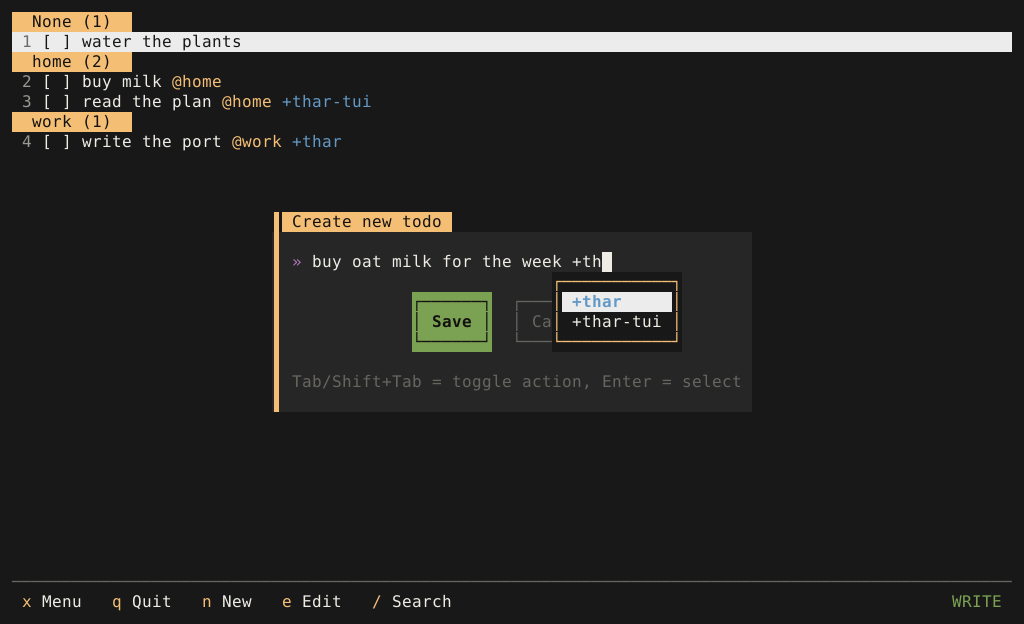
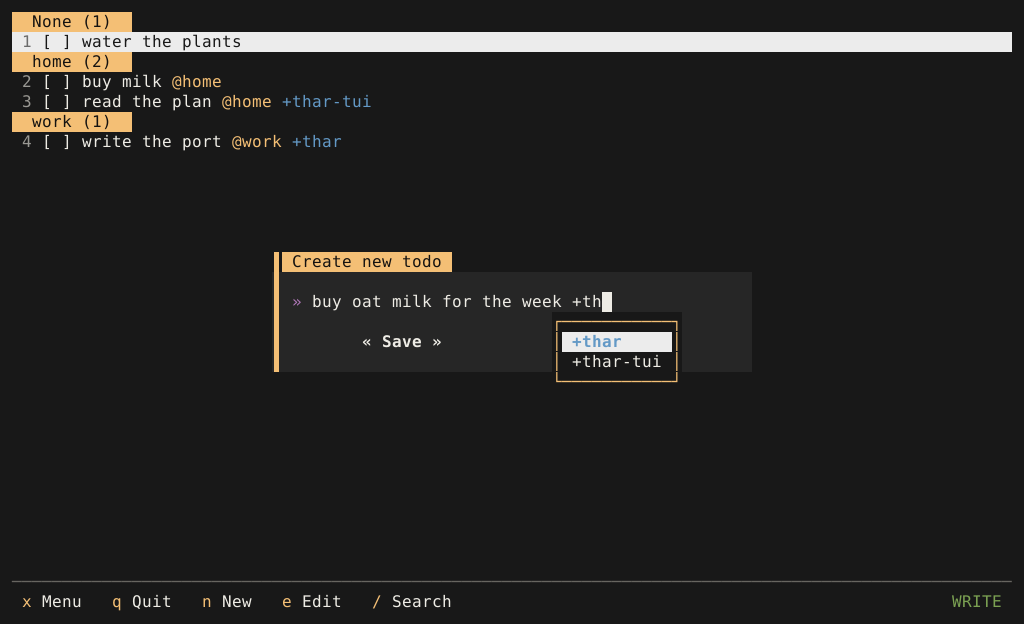
fix(tui): drop the create help line and anchor the search slash
The create/edit screen no longer draws the Tab/Shift+Tab help line under
the buttons, which leaves a compact input + spacer + button body. The search
bar keeps its left ' / ' prompt and now pins the closing slash to the last
cell of the row instead of leaving it right after the query.

Golden frames (create x2, edit, search bar) and the PTY waits follow the new
layout; the PTY assets were regenerated from a real 100x30 terminal.

Changed region(s): [[0.25, 0.3349, 0.7188, 0.6394], [0.25, 0.609, 0.3438, 0.6699], [0.375, 0.609, 0.4062, 0.6394]]

diff --git a/crates/thar-tui/tests/golden_cp7_editor.rs b/crates/thar-tui/tests/golden_cp7_editor.rs
@@ -95,14 +95,14 @@ fn eighty_by_twenty_four_create_modal_pins_input_suggestions_and_buttons() {
         "  work (1)",
         " 4 [ ] write the port @work +thar",
         "",
+        "",
         "                     ┃ Create new todo",
         "                     ┃",
         "                     ┃ » buy oat milk +th",
         "                     ┃              ┌───────────┐",
         "                     ┃     « Save » │ +thar     │cel ›",
         "                     ┃              │ +thar-tui │",
-        "                     ┃ Tab/Shift+Tab└───────────┘ion, Ente",
-        "                     ┃",
+        "                                    └───────────┘",
         "",
         "",
         "",
@@ -121,26 +121,26 @@ fn eighty_by_twenty_four_create_modal_pins_input_suggestions_and_buttons() {
     // The modal chrome is the Ink one: a primary accent bar, a primary title
     // chip with inverse text, and a #262626 body on the #181818 list.
     let buffer = backend.buffer();
-    let title_bar = &buffer[(21, 8)];
+    let title_bar = &buffer[(21, 9)];
     assert_eq!(title_bar.symbol(), "┃");
     assert_eq!(title_bar.style().fg, Some(Color::Rgb(0xF4, 0xBF, 0x75)));
-    let chip_pad = &buffer[(22, 8)];
+    let chip_pad = &buffer[(22, 9)];
     assert_eq!(chip_pad.style().bg, Some(Color::Rgb(0xF4, 0xBF, 0x75)));
-    let chip = &buffer[(23, 8)];
+    let chip = &buffer[(23, 9)];
     assert_eq!(chip.symbol(), "C");
     assert_eq!(chip.style().fg, Some(Color::Rgb(0x14, 0x12, 0x10)));
     assert_eq!(chip.style().bg, Some(Color::Rgb(0xF4, 0xBF, 0x75)));
-    let outer = &buffer[(20, 8)];
+    let outer = &buffer[(20, 9)];
     assert_eq!(outer.style().bg, Some(Color::Rgb(0x18, 0x18, 0x18)));
-    let pad = &buffer[(22, 10)];
+    let pad = &buffer[(22, 11)];
     assert_eq!(pad.style().bg, Some(Color::Rgb(0x26, 0x26, 0x26)));
-    let body_bar = &buffer[(21, 10)];
+    let body_bar = &buffer[(21, 11)];
     assert_eq!(body_bar.symbol(), "┃");
     assert_eq!(body_bar.style().fg, Some(Color::Rgb(0xF4, 0xBF, 0x75)));
     // The old full-border frame is gone: the outer padding columns stay blank
     // on every modal row, even where the popup and buttons use box glyphs.
     let screen = screen_lines(&backend);
-    for (y, line) in screen.iter().enumerate().skip(7).take(10) {
+    for (y, line) in screen.iter().enumerate().skip(8).take(8) {
         let cells: Vec<char> = line.chars().collect();
         assert_eq!(
             cells.get(20).copied().unwrap_or(' '),
@@ -157,25 +157,25 @@ fn eighty_by_twenty_four_create_modal_pins_input_suggestions_and_buttons() {
 
     // The popup is content-sized and anchored under the typed `+`: the box is
     // 13 cells wide (8-char name + prefix/space/borders), at columns 36..48.
-    assert_eq!(screen_lines(&backend)[11].chars().nth(36), Some('┌'));
-    assert_eq!(screen_lines(&backend)[11].chars().nth(48), Some('┐'));
+    assert_eq!(screen_lines(&backend)[12].chars().nth(36), Some('┌'));
+    assert_eq!(screen_lines(&backend)[12].chars().nth(48), Some('┐'));
 
     // The cursor is the cell after the last typed character, inverse video.
-    let cursor = &buffer[(41, 10)];
+    let cursor = &buffer[(41, 11)];
     assert_eq!(cursor.symbol(), " ");
     assert!(cursor.modifier.contains(Modifier::REVERSED));
 
     // The first suggestion row is selected: inverse background, accent
     // foreground, and the prefix inherits the row colour.
-    let selected = &buffer[(37, 12)];
+    let selected = &buffer[(37, 13)];
     assert_eq!(selected.symbol(), " ");
     assert_eq!(selected.style().bg, Some(Color::Rgb(0xEC, 0xEC, 0xEC)));
-    let project = &buffer[(38, 12)];
+    let project = &buffer[(38, 13)];
     assert_eq!(project.symbol(), "+");
     assert_eq!(project.style().fg, Some(Color::Rgb(0x63, 0x99, 0xC6)));
 
     // The popup prefix sits on the same column as the typed marker.
-    let typed_marker = &buffer[(38, 10)];
+    let typed_marker = &buffer[(38, 11)];
     assert_eq!(typed_marker.symbol(), "+");
 
     // A second frame without a tag keeps the modal at the same place and the
@@ -188,12 +188,12 @@ fn eighty_by_twenty_four_create_modal_pins_input_suggestions_and_buttons() {
     let buffer = plain.buffer();
     // The selected button is the shared `« Save »` row: foreground text on
     // the modal surface, bold, with the muted `‹ Cancel ›` beside it.
-    let save = &buffer[(29, 12)];
+    let save = &buffer[(29, 13)];
     assert_eq!(save.symbol(), "S");
     assert_eq!(save.style().bg, Some(Color::Rgb(0x26, 0x26, 0x26)));
     assert_eq!(save.style().fg, Some(Color::Rgb(0xEE, 0xEC, 0xE5)));
     assert!(save.style().add_modifier.contains(Modifier::BOLD));
-    let cancel = &buffer[(46, 12)];
+    let cancel = &buffer[(46, 13)];
     assert_eq!(cancel.symbol(), "C");
     assert_eq!(cancel.style().bg, Some(Color::Rgb(0x26, 0x26, 0x26)));
     assert_eq!(cancel.style().fg, Some(Color::Rgb(0x67, 0x65, 0x60)));
@@ -208,10 +208,11 @@ fn eighty_by_twenty_four_create_modal_prefills_tags_from_the_search() {
     let backend = draw(&app, 80, 24);
 
     let expected: Vec<String> = [
-        " / @work /",
+        " / @work                                                                       /",
         "────────────────────────────────────────────────────────────────────────────────",
         "  work (1)",
         " 1 [ ] write the port @work +thar",
+        "",
         "",
         "",
         "",
@@ -222,8 +223,7 @@ fn eighty_by_twenty_four_create_modal_prefills_tags_from_the_search() {
         "                     ┃",
         "                     ┃     « Save »         ‹ Cancel ›",
         "                     ┃",
-        "                     ┃ Tab/Shift+Tab = toggle action, Ente",
-        "                     ┃",
+        "",
         "",
         "",
         "",
@@ -240,7 +240,7 @@ fn eighty_by_twenty_four_create_modal_prefills_tags_from_the_search() {
     assert_eq!(screen_lines(&backend), expected);
 
     // The cursor sits at offset 0, in front of the prefilled token.
-    let cursor = &backend.buffer()[(25, 10)];
+    let cursor = &backend.buffer()[(25, 11)];
     assert_eq!(cursor.symbol(), " ");
     assert!(cursor.modifier.contains(Modifier::REVERSED));
 }
@@ -265,14 +265,14 @@ fn a_hundred_by_thirty_edit_modal_starts_at_the_text_end() {
         "",
         "",
         "",
+        "",
         "                          ┃ Edit todo",
         "                          ┃",
         "                          ┃ » write the port @work +thar",
         "                          ┃",
         "                          ┃        « Save »             ‹ Cancel ›",
         "                          ┃",
-        "                          ┃ Tab/Shift+Tab = toggle action, Enter = select",
-        "                          ┃",
+        "",
         "",
         "",
         "",
@@ -292,7 +292,7 @@ fn a_hundred_by_thirty_edit_modal_starts_at_the_text_end() {
     assert_eq!(screen_lines(&backend), expected);
 
     // The cursor is one cell past the 26-character text.
-    let cursor = &backend.buffer()[(56, 13)];
+    let cursor = &backend.buffer()[(56, 14)];
     assert_eq!(cursor.symbol(), " ");
     assert!(cursor.modifier.contains(Modifier::REVERSED));
 }

diff --git a/crates/thar-tui/src/modal/create_edit.rs b/crates/thar-tui/src/modal/create_edit.rs
@@ -40,7 +40,8 @@
 //! floating popup owned by [`crate::view::suggestion`]: it is sized to the
 //! longest name and anchored under the typed `+`/`@`, and the modal itself
 //! keeps a fixed body height so it never jumps while the list opens or closes.
-//! The Save/Cancel row is the shared `‹ Save ›` / `« Save »` button row.
+//! The Save/Cancel row is the shared `‹ Save ›` / `« Save »` button row, with
+//! no help line underneath.
 
 use ratatui::Frame;
 use ratatui::crossterm::event::{KeyCode, KeyEvent, KeyModifiers};
@@ -59,22 +60,18 @@ use crate::modal::{Action, Modal, ModalId, ModalRect, ModalWidth, Outcome};
 use crate::suggest::{Anchor, Overlay, Suggestions, TagSources};
 use crate::theme;
 
-/// Help line under the buttons, copied from `ModalTodoInput.tsx` so the Rust
-/// and Ink screens describe the same keys.
-const HELP_TEXT: &str = "Tab/Shift+Tab = toggle action, Enter = selected action, Esc = cancel";
-
 /// The input prompt, two cells wide.
 const PROMPT: &str = "» ";
 
 /// Labels of the two buttons, in order.
 const BUTTON_LABELS: [&str; 2] = ["Save", "Cancel"];
 
-/// Body row of the button row: input, spacer, buttons, spacer, help.
+/// Body row of the button row: input, spacer, buttons.
 const BUTTON_ROW: u16 = 2;
 
-/// Rows in the fixed body: the input, a spacer, the button row, a spacer and
-/// the help line. Suggestions float above this and never change the height.
-const BASE_ROWS: u16 = 5;
+/// Rows in the fixed body: the input, a spacer and the button row.
+/// Suggestions float above this and never change the height.
+const BASE_ROWS: u16 = 3;
 
 /// Which screen this is.
 #[derive(Clone, Copy, Debug, PartialEq, Eq)]
@@ -276,12 +273,9 @@ impl Modal for TextModal {
             return;
         }
 
-        let mut row = 0;
-        render_input(frame, content, row, &self.editor);
-        row += 1;
+        render_input(frame, content, 0, &self.editor);
 
-        // Spacer, buttons, spacer, help.
-        row += 1;
+        // Spacer, buttons.
         super::buttons::render(
             frame,
             rect,
@@ -290,9 +284,6 @@ impl Modal for TextModal {
             self.selected_button,
             self.hovered,
         );
-        row += 1;
-        row += 1;
-        render_help(frame, content, row);
     }
 
     fn suggestion_overlay(&self, rect: ModalRect) -> Option<Overlay<'_>> {
@@ -454,20 +445,6 @@ fn render_input(frame: &mut Frame, content: Rect, offset: u16, editor: &Editor) 
 
     frame.render_widget(
         Paragraph::new(Line::from(spans)).style(Style::default().bg(theme::MODAL_BACKGROUND)),
-        area,
-    );
-}
-
-/// Draw the muted help line, clipped to the modal width.
-fn render_help(frame: &mut Frame, content: Rect, offset: u16) {
-    let Some(area) = row_rect(content, offset) else {
-        return;
-    };
-    let style = Style::default()
-        .bg(theme::MODAL_BACKGROUND)
-        .fg(theme::MUTED);
-    frame.render_widget(
-        Paragraph::new(sanitize_for_display(HELP_TEXT)).style(style),
         area,
     );
 }

diff --git a/crates/thar-tui/src/view/mod.rs b/crates/thar-tui/src/view/mod.rs
@@ -89,6 +89,11 @@ fn render_search(frame: &mut Frame, app: &App, layout: Layout) {
     // strings per frame; an unfocused bar renders the query in one piece.
     let raw = app.search().chars();
 
+    // The query keeps the left ` / ` prompt. The closing slash is drawn
+    // separately on the last cell of the row so it stays anchored to the right
+    // edge however long the query is; the query itself is clipped before it.
+    let content = Rect::new(row.x, row.y, row.width.saturating_sub(2), row.height);
+
     let mut spans = vec![Span::styled(" / ", prompt)];
     if focused {
         let cursor = app.search().cursor().min(raw.len());
@@ -112,9 +117,16 @@ fn render_search(frame: &mut Frame, app: &App, layout: Layout) {
         let query: String = raw.iter().collect();
         spans.push(Span::styled(sanitize_for_display(&query), query_style));
     }
-    spans.push(Span::styled(" / ", prompt));
 
-    frame.render_widget(Paragraph::new(Line::from(spans)), row);
+    frame.render_widget(Paragraph::new(Line::from(spans)), content);
+
+    if row.width >= 4 {
+        let close = Rect::new(row.width.saturating_sub(2), row.y, 2, 1);
+        frame.render_widget(
+            Paragraph::new(Line::from(Span::styled(" /", prompt))),
+            close,
+        );
+    }
 
     let border = Rect::new(0, layout.search_border_row(), layout.width, 1);
     frame.render_widget(
@@ -630,6 +642,27 @@ mod tests {
         app.set_search_focused(true);
         app.set_query(query);
         app
+    }
+
+    #[test]
+    fn the_search_bar_closes_on_the_right_edge() {
+        for focused in [true, false] {
+            let mut app = focused_query("milk");
+            app.set_search_focused(focused);
+            let mut terminal = Terminal::new(TestBackend::new(40, 10)).expect("test terminal");
+            terminal
+                .draw(|frame| render(frame, &app))
+                .expect("draw succeeds");
+            let buffer = terminal.backend().buffer();
+
+            // Left prompt unchanged, query starts at cell 3.
+            assert_eq!(buffer[(0, 0)].symbol(), " ");
+            assert_eq!(buffer[(1, 0)].symbol(), "/");
+            assert_eq!(buffer[(3, 0)].symbol(), "m");
+            // The closing slash is the last cell of the row.
+            assert_eq!(buffer[(38, 0)].symbol(), " ", "focused={focused}");
+            assert_eq!(buffer[(39, 0)].symbol(), "/", "focused={focused}");
+        }
     }
 
     #[test]

diff --git a/crates/thar-cli/tests/pty/main.rs b/crates/thar-cli/tests/pty/main.rs
@@ -244,7 +244,7 @@ fn search_filters_shows_no_results_and_clears() {
 
     // `/` focuses the search bar (two rows at the top).
     session.send(b"/");
-    session.wait_text(" /   /"); // focused caret is an inverse blank cell
+    session.wait_text(" / "); // focused caret is an inverse blank cell
 
     // Typing filters the list.
     session.send(b"milk");
@@ -265,9 +265,9 @@ fn search_filters_shows_no_results_and_clears() {
     session.wait_todo_text("buy milk");
 
     // Enter keeps the filter and leaves the search bar: the caret cell is gone,
-    // so the bar renders exactly ` / milk /`.
+    // and the closing slash stays anchored to the right edge.
     session.send(ENTER);
-    session.wait_text(" / milk /");
+    session.wait_text(" / milk");
     session.wait_focused("buy milk");
     let snapshot = session.snapshot();
     assert!(
@@ -284,7 +284,7 @@ fn search_filters_shows_no_results_and_clears() {
     session.send(b"/");
     session.send(ESC);
     session.wait_todo_text("water the plants");
-    session.wait_no_text(" / milk /");
+    session.wait_no_text(" / milk");
 }
 
 #[test]

diff --git a/crates/thar-tui/tests/golden.rs b/crates/thar-tui/tests/golden.rs
@@ -218,7 +218,7 @@ fn the_search_bar_owns_the_first_two_rows() {
     let backend = draw(&app, 80, 24);
     let screen = screen_lines(&backend);
 
-    assert_eq!(screen[0], " / plan  /");
+    assert_eq!(screen[0], format!(" / plan{}/", " ".repeat(80 - 7 - 1)));
     assert_eq!(screen[1], "─".repeat(80));
     assert_eq!(screen[2], "  None (1)");
     assert_eq!(screen[3], " 1 [ ] read the plan +thar");

diff --git a/crates/thar-cli/tests/pty/screenshot.rs b/crates/thar-cli/tests/pty/screenshot.rs
@@ -339,7 +339,7 @@ fn cp6_paste_fix_screenshot() {
 
     session.wait_text("READ-ONLY");
     session.send(b"/");
-    session.wait_text(" /   /");
+    session.wait_text(" / ");
     // The terminal's bracketed-paste sequence, exactly as a real terminal
     // sends it: the query must read "milk", not "klim".
     session.send(b"\x1b[200~milk\x1b[201~");

diff --git a/docs/rust-port/CP7-EDITOR.md b/docs/rust-port/CP7-EDITOR.md
@@ -96,8 +96,8 @@ One `TextModal` with a `Create`/`Edit` mode:
 - A rejected value returns `Outcome::Actions([Action::Toast(message)])` and the
   screen stays open.
 - Rendering: `» ` prompt, the character under the cursor in an inverse cell,
-  then the shared `‹ Save ›` / `« Save »` button row and the Ink help line.
-  Suggestions are a floating popup (`view::suggestion`) sized to the longest
+  then the shared `‹ Save ›` / `« Save »` button row. Suggestions are a
+  floating popup (`view::suggestion`) sized to the longest
   name and anchored under the typed `+`/`@`; it is painted after the modal, can
   cover the body and buttons like the Ink root-level overlay, and never changes
   the modal's fixed body height. The modal chrome itself is the Ink one: a left
@@ -176,8 +176,6 @@ as the CP6/CP7-write assets.
   flips above the anchor when there is no room below. At most six rows are drawn
   at once; the window scrolls with the highlight. The search bar uses the same
   popup with its `" / "` prompt origin.
-- **The help line is clipped at the modal width** instead of wrapping like
-  `countWrappedLines`, because `body_rows` cannot know the terminal width.
 - **The input scrolls horizontally** instead of wrapping. A wrapped input would
   change `body_rows` per frame and make the cursor cell ambiguous at a soft
   wrap.
